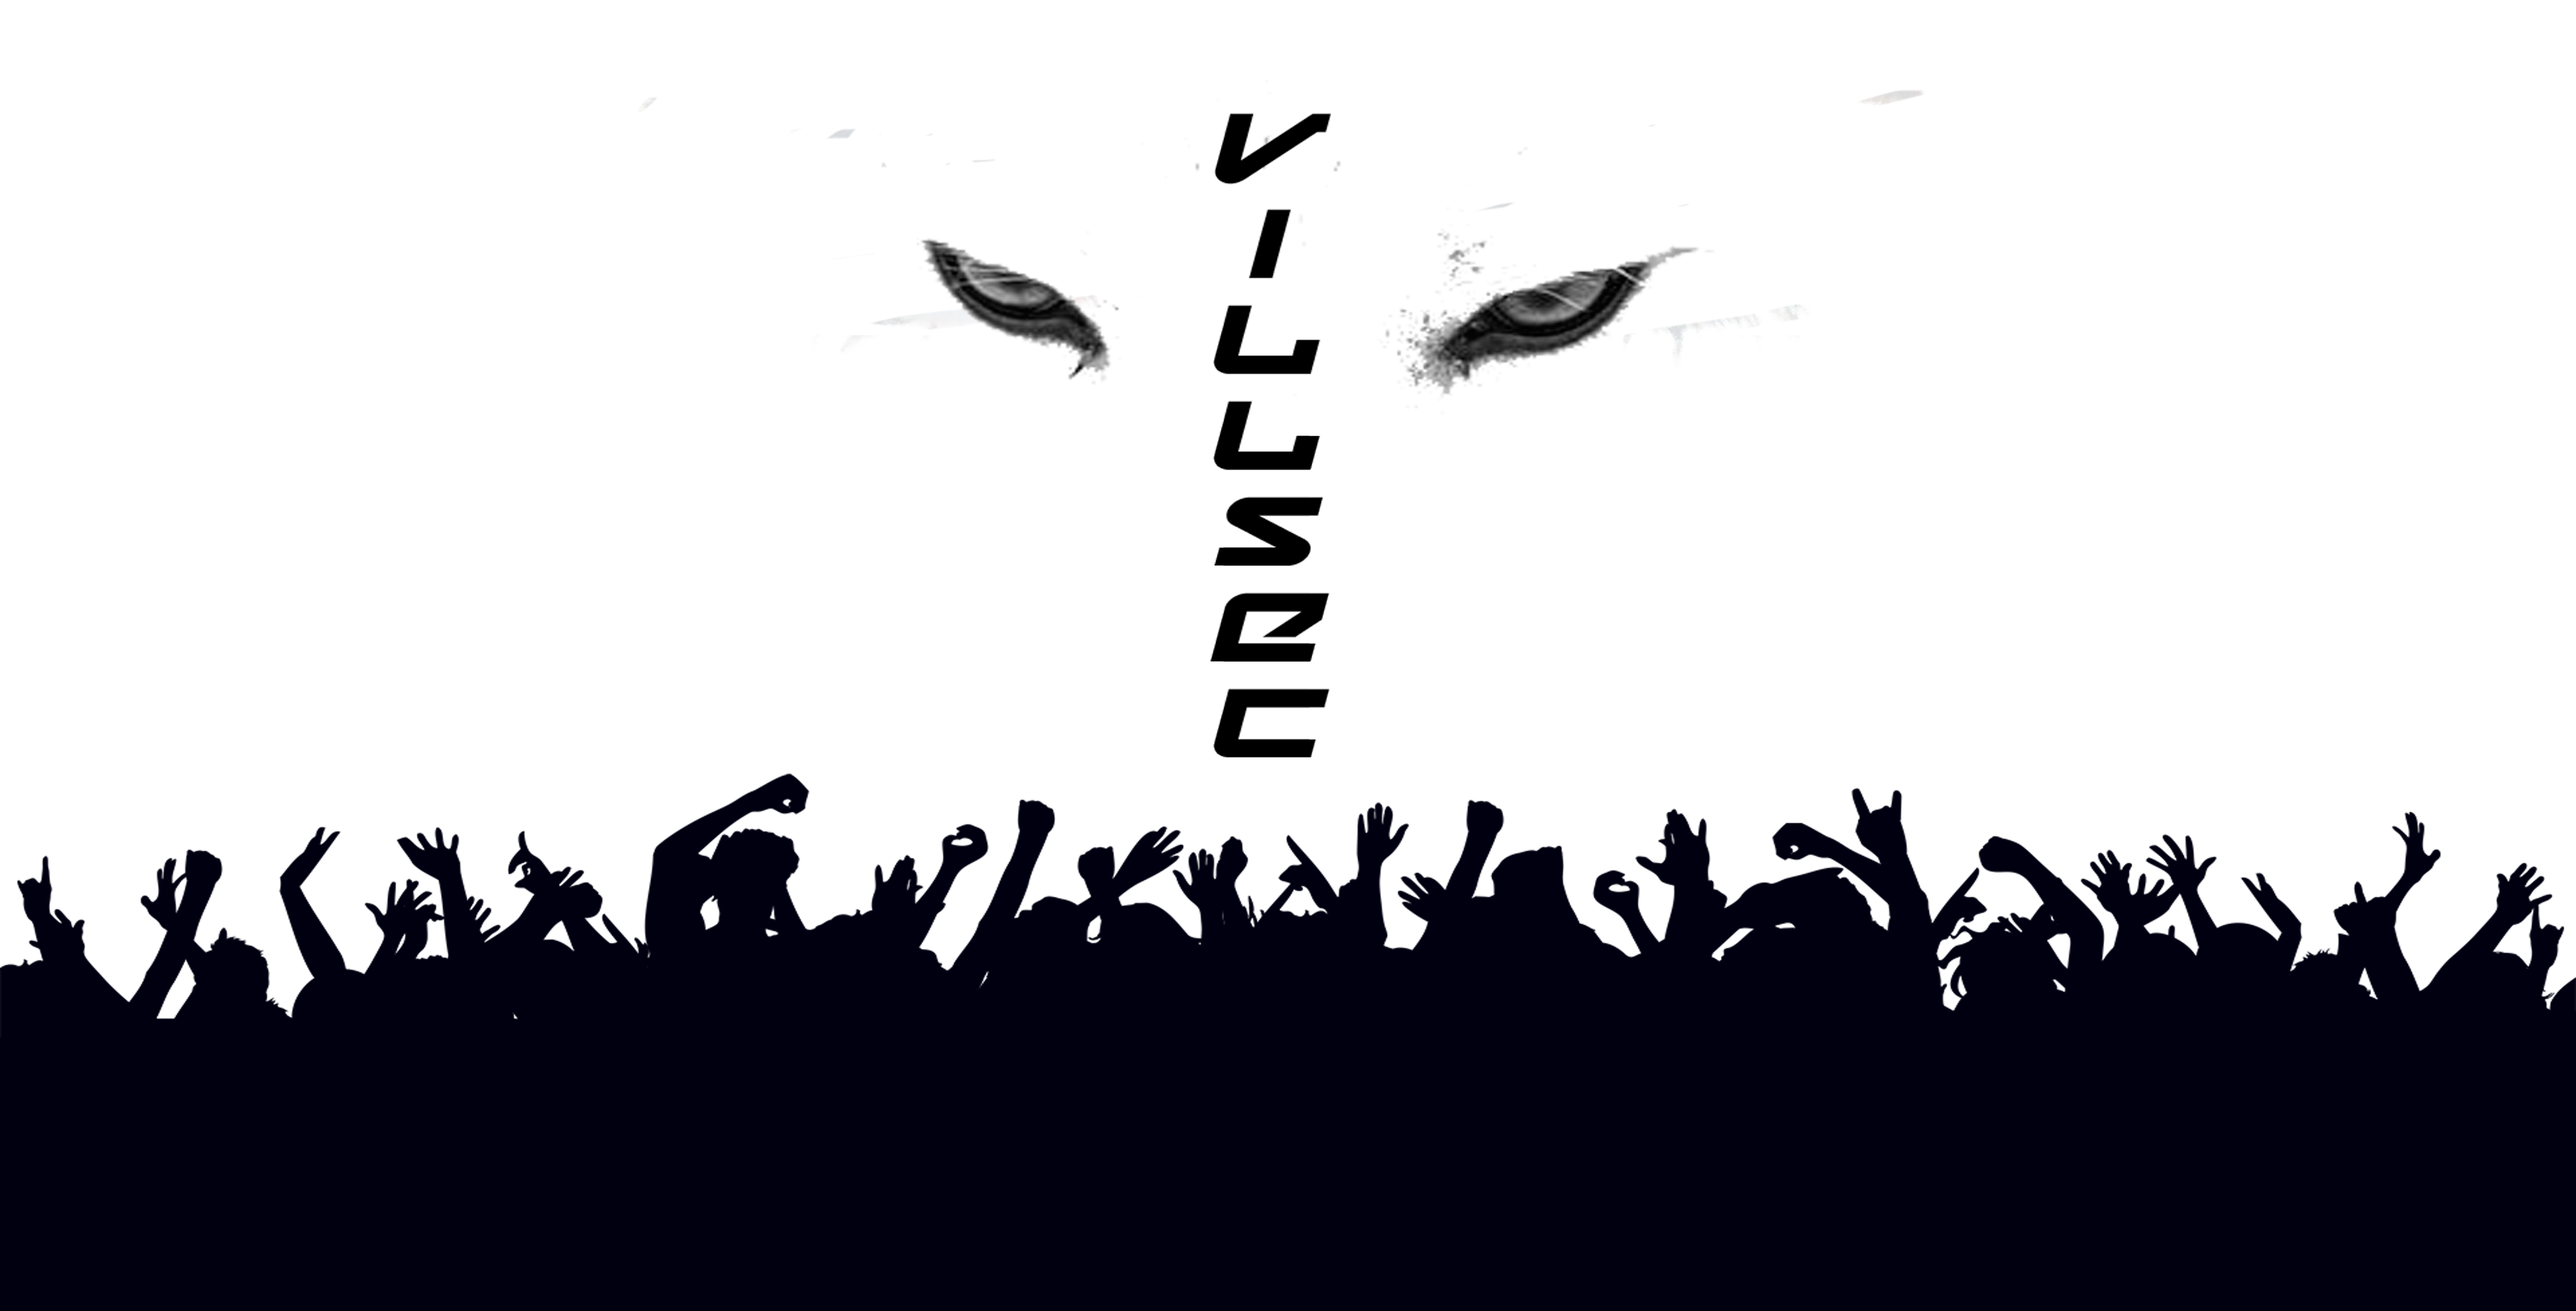
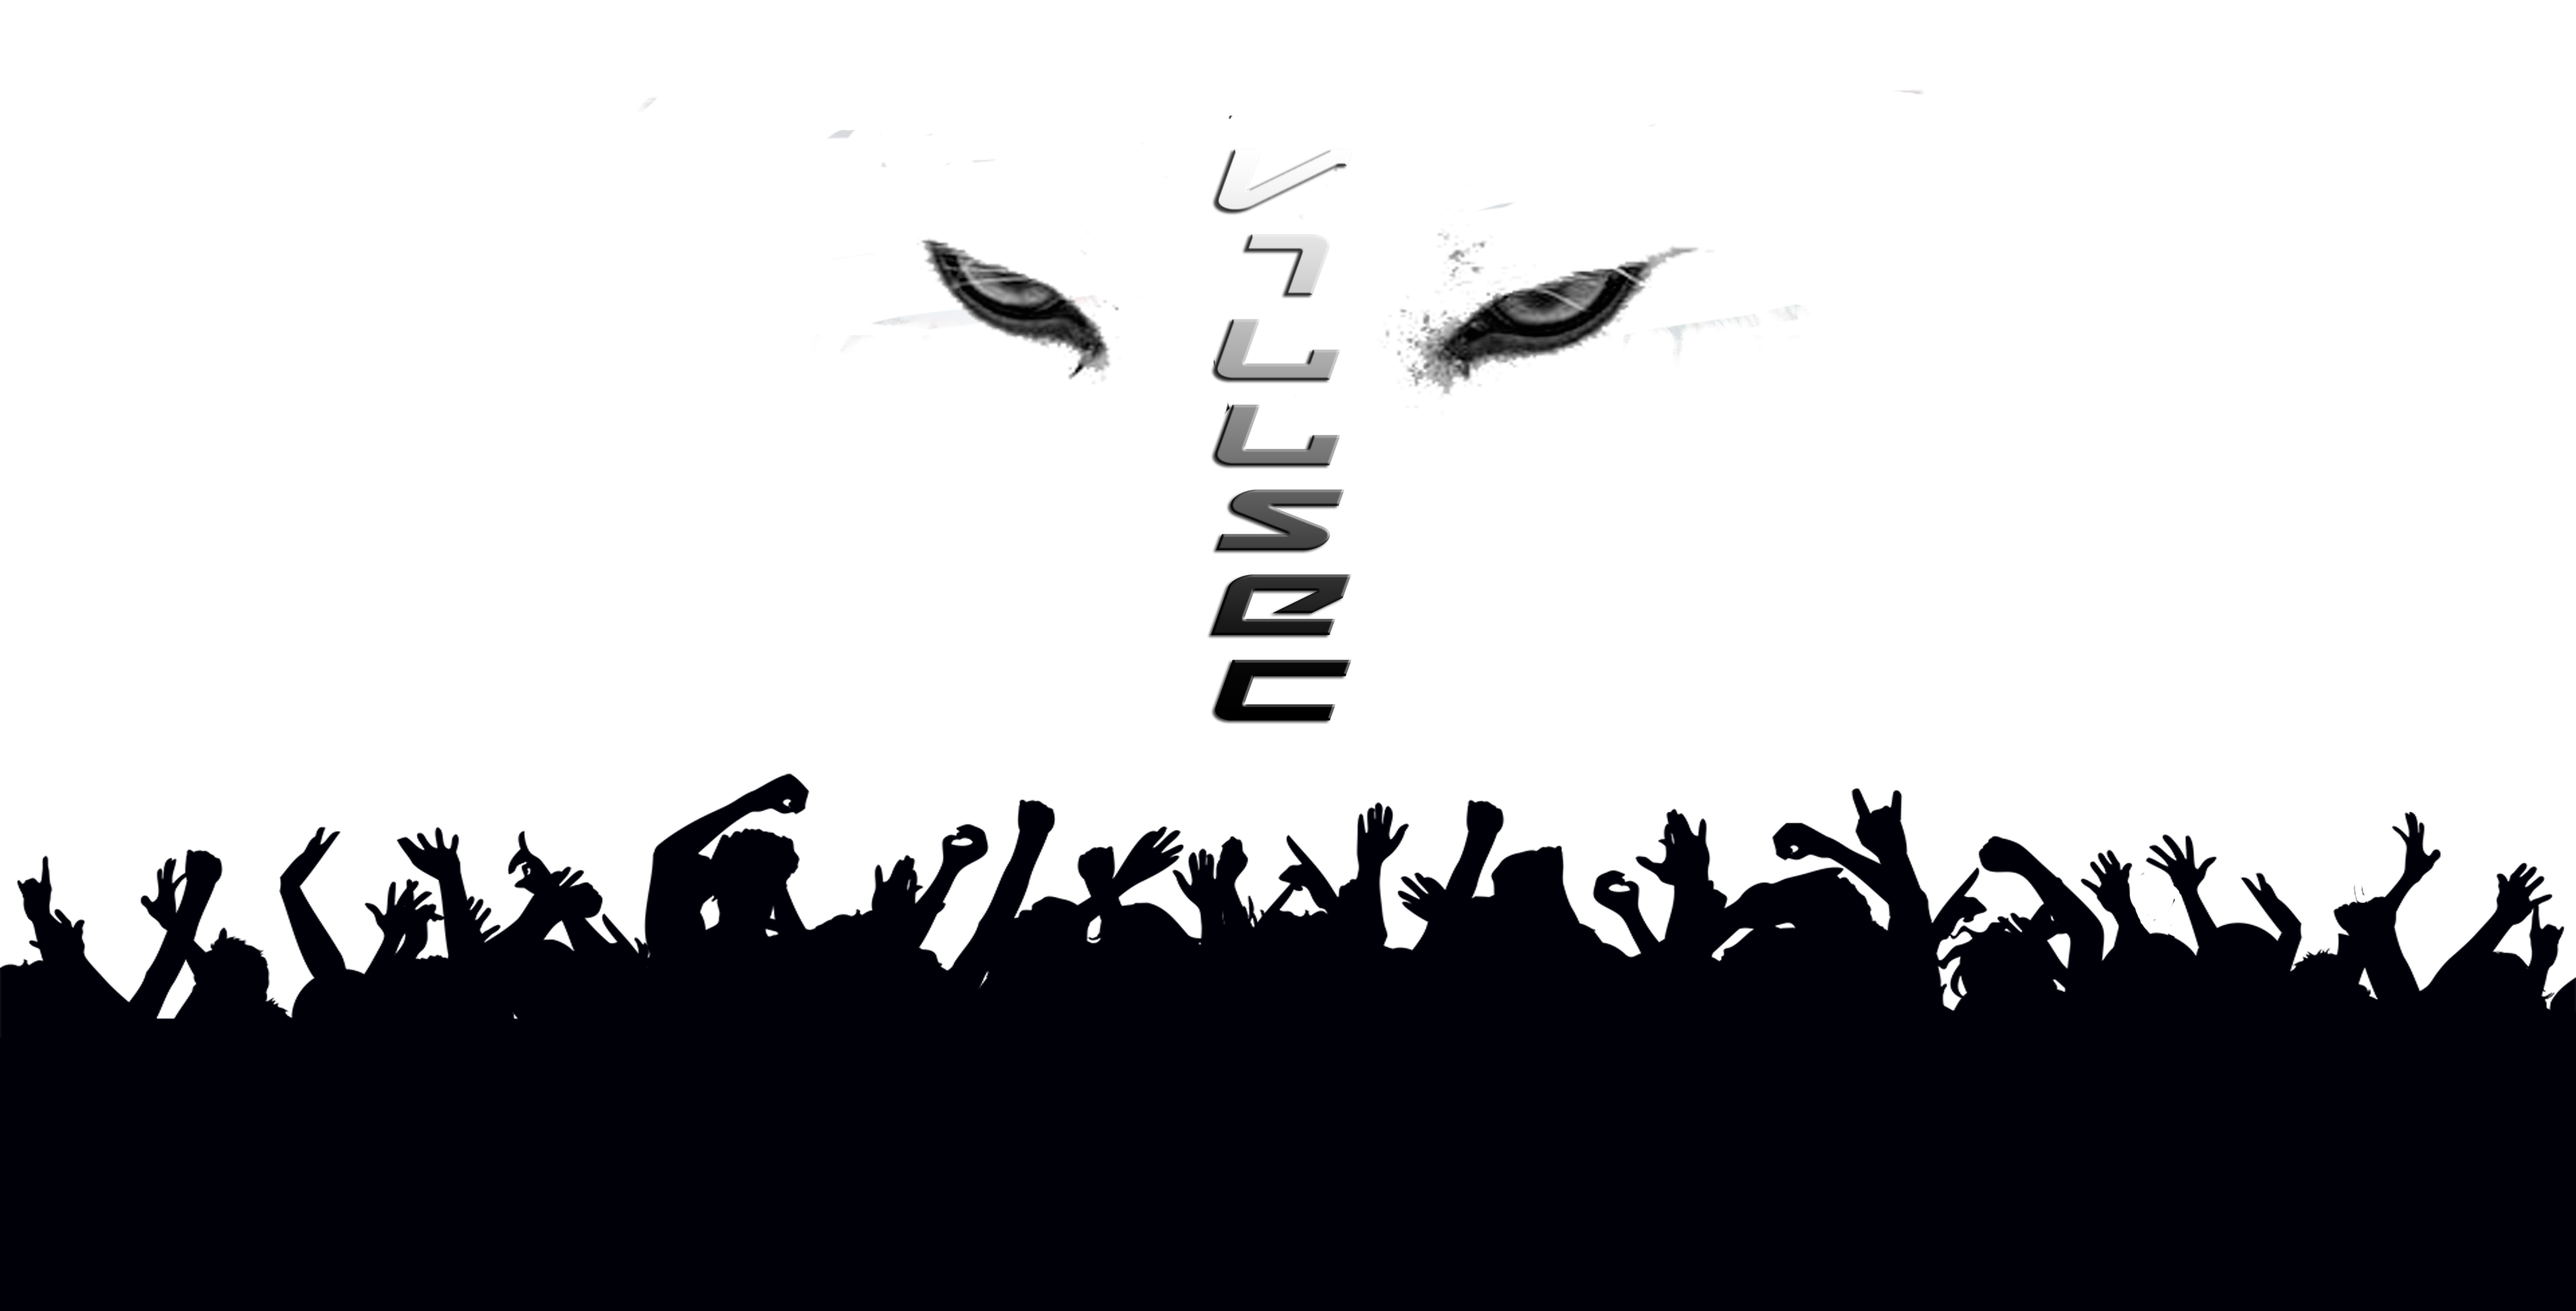
criacao da tela user admin

Changed region(s): [[0.467, 0.0938, 0.5293, 0.5938], [0.8095, 0.6562, 0.8407, 0.7188]]

diff --git a/src/app/core/home/admin/admin.component.html b/src/app/core/home/admin/admin.component.html
@@ -1,1 +1,83 @@
-<p>admin works!</p>
+<div class="mdl-layout mdl-js-layout mdl-layout--fixed-header">
+    <div class="android-header mdl-layout__header mdl-layout__header--waterfall mat-elevation-z8">
+        <div class="mdl-layout__header-row">
+            <span routerLink="" class="android-title mdl-layout-title mdl-navigation__link">
+                <img class="android-logo-image" src="../../../../assets/images/villsec-logo-barra-principal.png">
+            </span>
+            <!-- Add spacer, to align navigation to the right in desktop -->
+            <div class="android-header-spacer mdl-layout-spacer"></div>
+
+            <!-- Navigation -->
+            <div class="android-navigation-container">
+                <nav class="android-navigation mdl-navigation">
+                    <a class="mdl-navigation__link mdl-typography--text-uppercase" mat-menu-item
+                       [matMenuTriggerFor]="meusdados">
+                        <mat-icon class="example-icon">assignment</mat-icon>Meus Dados
+                    </a>
+                    <a class="mdl-navigation__link mdl-typography--text-uppercase" mat-menu-item
+                       [matMenuTriggerFor]="midias">
+                        <mat-icon class="example-icon">storage</mat-icon>Mídias
+                    </a>
+                    <mat-menu #meusdados="matMenu">
+                        <button routerLink="/meusdados" mat-menu-item>
+                            <mat-icon class="example-icon">fingerprint</mat-icon>Perfil
+                        </button>
+                    </mat-menu>
+                    <mat-menu #midias="matMenu">
+                        <button routerLink="/albuns" mat-menu-item>
+                            <mat-icon class="example-icon">album</mat-icon>Álbum
+                        </button>
+                        <button routerLink="/elementos" mat-menu-item>
+                            <mat-icon class="example-icon">folder_open</mat-icon>Elemento
+                        </button>
+                        <button routerLink="/eventos" mat-menu-item>
+                            <mat-icon class="example-icon">event_note</mat-icon>Evento
+                        </button>
+                        <button routerLink="/musicas" mat-menu-item>
+                            <mat-icon class="example-icon">audiotrack</mat-icon>Música
+                        </button>
+                    </mat-menu>
+                </nav>
+            </div>
+            <span class="android-mobile-title mdl-layout-title ">
+                <img class="android-logo-image" src="../../../../assets/images/villsec-logo-barra-principal.png">
+            </span>
+            <button class="android-more-button mdl-button mdl-js-button mdl-button--icon mdl-js-ripple-effect"
+                    id="more-button">
+                <i class="material-icons">more_vert</i>
+            </button>
+            <ul class="mdl-menu mdl-js-menu mdl-menu--bottom-right mdl-js-ripple-effect" for="more-button">
+                <li class="mdl-menu__item">Logout</li>                
+            </ul>
+        </div>
+    </div>
+    <div class="android-drawer mdl-layout__drawer">
+        <span routerLink="" class="mdl-layout-title mdl-navigation__link">
+            <img class="android-logo-image" src="../../../../assets/images/villsec-logo-barra-principal.png">
+        </span>
+        <nav class="mdl-navigation">
+            <span class="mdl-navigation__link" href="">
+                <mat-icon class="example-icon">fingerprint</mat-icon> Meus Dados
+            </span>
+            <a class="mdl-navigation__link" routerLink="/albuns">
+                <mat-icon class="example-icon">album</mat-icon> Álbum
+            </a>
+            <a class="mdl-navigation__link" routerLink="/elementos">
+                <mat-icon class="example-icon">folder_open</mat-icon> Elemento
+            </a>
+            <a class="mdl-navigation__link" routerLink="/eventos">
+                <mat-icon class="example-icon">event_note</mat-icon> Evento
+            </a>
+            <a class="mdl-navigation__link" routerLink="/musicas">
+                <mat-icon class="example-icon">audiotrack</mat-icon> Música
+            </a>            
+            <div class="android-drawer-separator"></div>
+            <span class="mdl-navigation__link" routerLink="" (click)="logout()">
+                <mat-icon class="example-icon">power_settings_new</mat-icon> Sair
+            </span>
+        </nav>
+    </div>
+    <div class="android-content mdl-layout__content logo-background">
+        <router-outlet></router-outlet>
+    </div>
+</div>

diff --git a/src/app/core/home/main/main.component.ts b/src/app/core/home/main/main.component.ts
@@ -12,7 +12,7 @@ export class MainComponent implements OnInit {
   readonly ADMIN = 1;
   readonly PROPRIETARIO = 2;
   readonly SEGUIDOR = 3;
-  user: number = 0;
+  user: number = 1;
   private localUser: ILocalUser;
 
   constructor(private theAuthenticationServices: AuthenticationService) { }
@@ -22,11 +22,5 @@ export class MainComponent implements OnInit {
     if (this.localUser != null) {
       this.user = this.localUser.theTipoUsuario;
     }
-
   }
-
-  logout() {
-    this.theAuthenticationServices.logout();
-  }
-
 }

diff --git a/src/app/core/home/admin/admin.component.ts b/src/app/core/home/admin/admin.component.ts
@@ -1,4 +1,5 @@
 import { Component, OnInit } from '@angular/core';
+import { AuthenticationService } from '../../authentication/authentication.service';
 
 @Component({
   selector: 'app-admin',
@@ -7,9 +8,11 @@
 })
 export class AdminComponent implements OnInit {
 
-  constructor() { }
+  constructor(private theAuthenticationServices: AuthenticationService) { }
 
   ngOnInit(): void {
   }
-
+  logout() {
+    this.theAuthenticationServices.logout();
+  }
 }

diff --git a/src/app/core/home/admin/admin.component.scss b/src/app/core/home/admin/admin.component.scss
@@ -1,0 +1,10 @@
+div.logo-background {
+    background-image: url(../../../../assets/images/camada1.png);
+    background-repeat: no-repeat;
+    background-attachment: scroll;
+    background-position: center;
+    background-attachment: scroll;
+    background-size: cover;
+    overflow: hidden;
+    position: relative;
+}

diff --git a/src/styles.scss b/src/styles.scss
@@ -123,7 +123,7 @@ a img {
 }
 
 .android-navigation a:hover {
-    width: 200%;
+    width: 30%;
 }
 
 .android-search-box.is-focused + .android-navigation-container {
